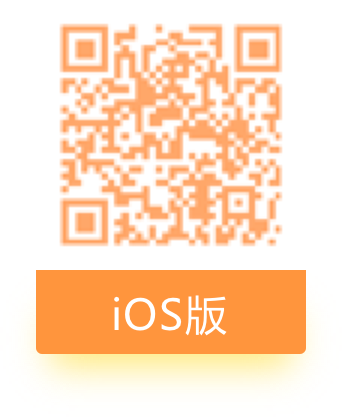
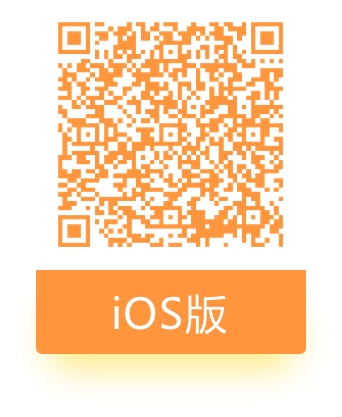
QR code of iOS;Download link

diff --git a/mobile-index.html b/mobile-index.html
@@ -33,7 +33,7 @@
         </a>
       </div>
       <div class="box-android-ios inline-block">
-        <a href="" class="inline-block android-ios">
+        <a href="https://itunes.apple.com/cn/app/hua-shi-xia-zi-hua-shi-zi/id1180256394" class="inline-block android-ios">
           <svg viewBox="0 0 274 96">
             <use xmlns:xlink="http://www.w3.org/1999/xlink" xlink:href="#ios"></use>
           </svg>
